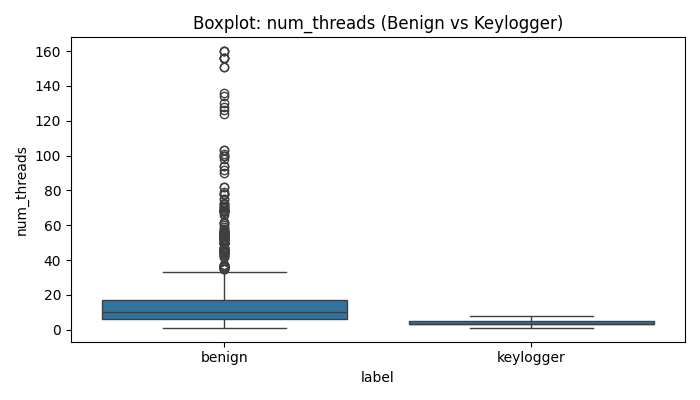
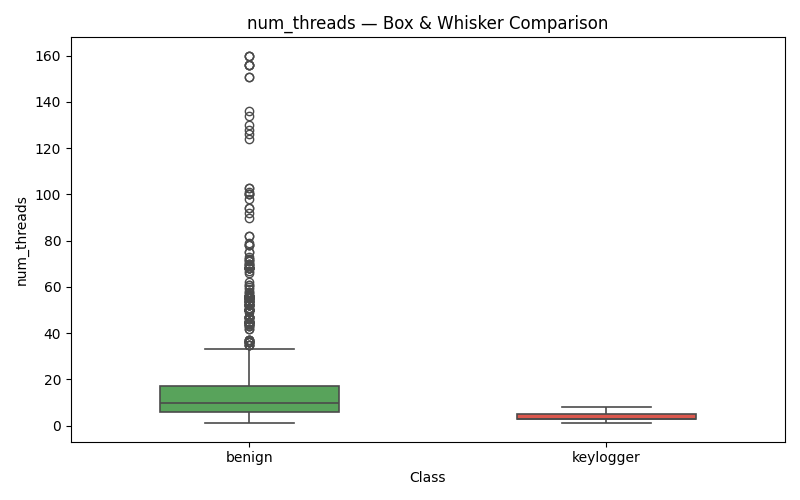
updated grpahs

diff --git a/plot_data.py b/plot_data.py
@@ -40,18 +40,30 @@ def plot_label_distribution(df):
 # 2. Boxplots for ALL numeric features
 # =========================================================
 def plot_feature_boxplots(df):
-    numeric_cols = df.select_dtypes(include=["float64", "int64"]).columns
+    numeric_cols = df.select_dtypes(include=["int64", "float64"]).columns
 
     for col in numeric_cols:
-        if col in ["pid"]:  # skip pid
+        if col in ["pid"]:
             continue
 
-        plt.figure(figsize=(7, 4))
-        sns.boxplot(x=df["label"], y=df[col])
-        plt.title(f"Boxplot: {col} (Benign vs Keylogger)")
+        plt.figure(figsize=(8, 5))
+        sns.boxplot(
+            data=df,
+            x="label",
+            y=col,
+            palette={"benign": "#4CAF50", "keylogger": "#F44336"},
+            width=0.5,
+            linewidth=1.2,
+            showfliers=True  # shows outliers, better for research
+        )
+
+        plt.title(f"{col} — Box & Whisker Comparison")
+        plt.xlabel("Class")
+        plt.ylabel(col)
         plt.tight_layout()
         plt.savefig(f"graphs/{col}_boxplot.png")
         plt.close()
+
 
 
 # =========================================================
